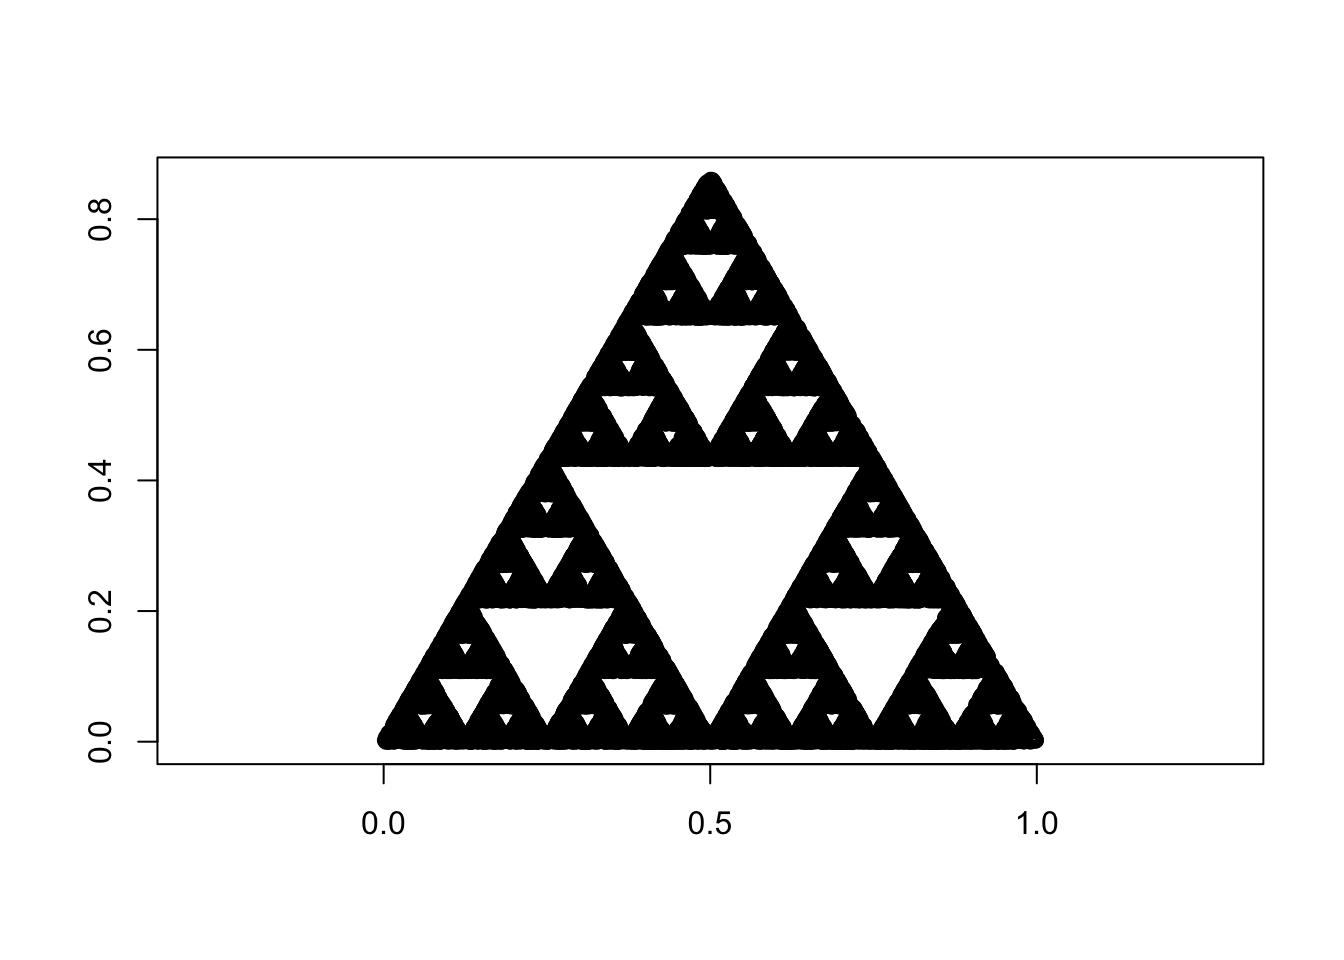
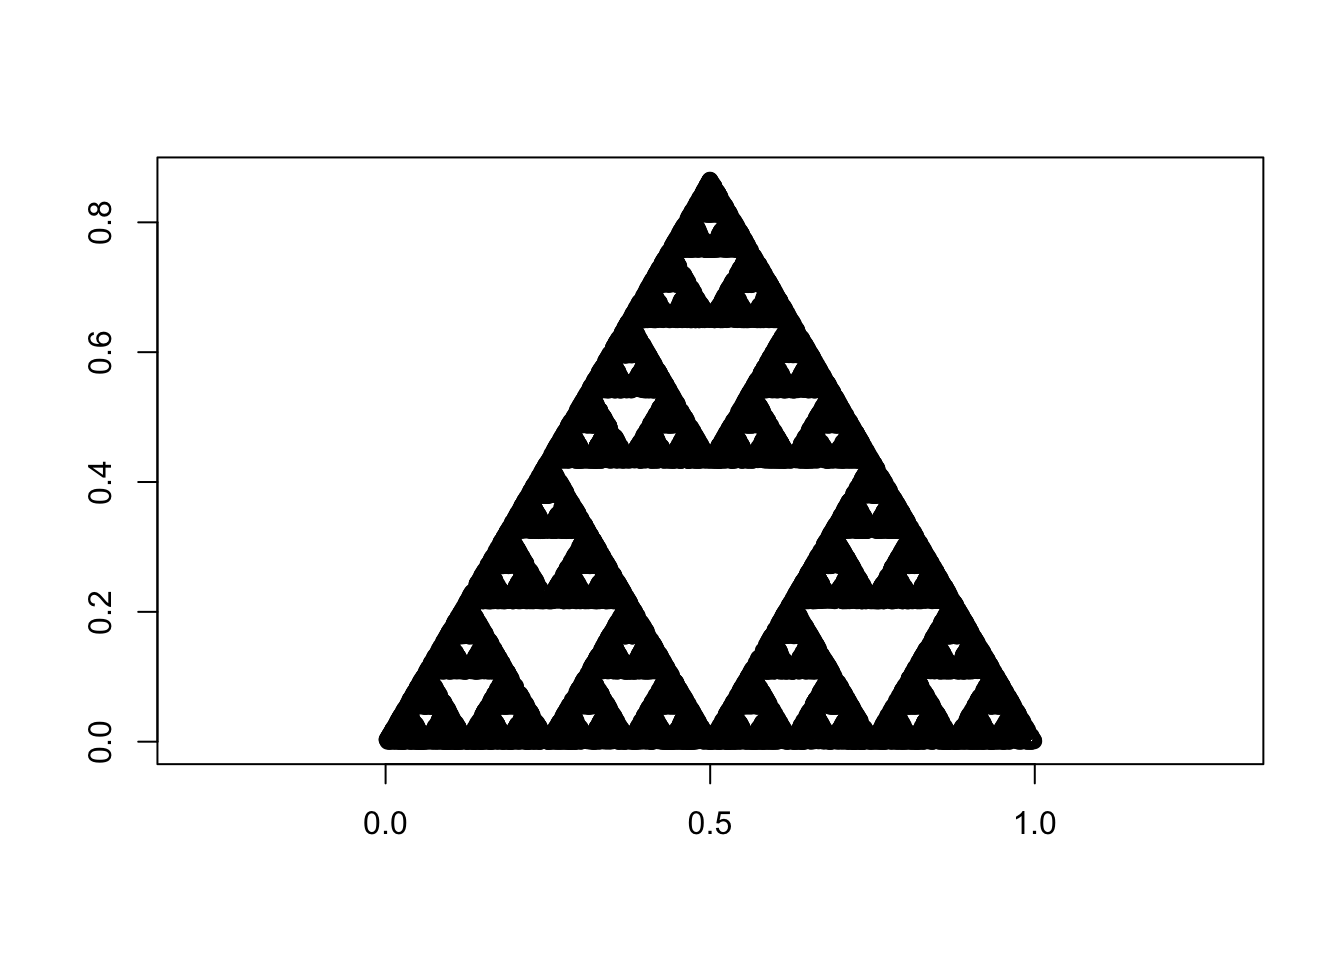
Built site for sameSVD: 0.2.0@332604d

diff --git a/articles/points.html b/articles/points.html
@@ -85,7 +85,7 @@
       <h1 data-toc-skip>Box-Counting dimension of point datasets</h1>
                         <h4 class="author">Pramit Ghosh</h4>
             
-            <h4 class="date">2020-05-12</h4>
+            <h4 class="date">2020-05-29</h4>
       
       <small class="dont-index">Source: <a href="https://github.com/pramitghosh/sameSVD/blob/master/vignettes/points.Rmd"><code>vignettes/points.Rmd</code></a></small>
       <div class="hidden name"><code>points.Rmd</code></div>
@@ -180,10 +180,10 @@
 <span class="co">#&gt; Simple feature collection with 1 feature and 0 fields</span>
 <span class="co">#&gt; geometry type:  MULTIPOINT</span>
 <span class="co">#&gt; dimension:      XY</span>
-<span class="co">#&gt; bbox:           xmin: 0.002162498 ymin: 2.734709e-07 xmax: 0.9983608 ymax: 0.8601136</span>
+<span class="co">#&gt; bbox:           xmin: 0.001840997 ymin: 0 xmax: 0.998807 ymax: 0.8653527</span>
 <span class="co">#&gt; CRS:            EPSG:3857</span>
 <span class="co">#&gt;   st_sfc.st_multipoint.sierpinski_pts...crs...3857.</span>
-<span class="co">#&gt; 1                    MULTIPOINT ((0.25 0.4330127...</span>
+<span class="co">#&gt; 1                    MULTIPOINT ((0.5 0), (0.25 ...</span>
 <span class="fu"><a href="https://rdrr.io/pkg/sf/man/plot.html">plot</a></span>(<span class="no">sierpinski_sf</span>, <span class="kw">axes</span> <span class="kw">=</span> <span class="fl">TRUE</span>)</pre></body></html></div>
 <p><img src="points_files/figure-html/unnamed-chunk-8-1.png" width="672"></p>
 <p>The Box-Counting Dimension of this figure is calculated using <code><a href="../reference/bcd.html">bcd()</a></code> as illustrated below.</p>
@@ -194,7 +194,7 @@
 <span class="co">#&gt; Plotting requested...</span></pre></body></html></div>
 <p><img src="points_files/figure-html/unnamed-chunk-9-1.png" width="672"></p>
 <pre><code>#&gt; Plotting best-fit line...
-#&gt; [1] 1.599228</code></pre>
+#&gt; [1] 1.600681</code></pre>
 <p>The regression gives a Box-Counting dimension of ~1.59 which is very close to the theoretical value.</p>
 </div>
 </div>

diff --git a/articles/using_fdim.html b/articles/using_fdim.html
@@ -85,7 +85,7 @@
       <h1 data-toc-skip>Using sameSVD</h1>
                         <h4 class="author">Pramit Ghosh</h4>
             
-            <h4 class="date">2020-05-12</h4>
+            <h4 class="date">2020-05-29</h4>
       
       <small class="dont-index">Source: <a href="https://github.com/pramitghosh/sameSVD/blob/master/vignettes/using_fdim.Rmd"><code>vignettes/using_fdim.Rmd</code></a></small>
       <div class="hidden name"><code>using_fdim.Rmd</code></div>
@@ -126,7 +126,7 @@
 <li>If the feature is stored in an external file, it may be imported using the <code>dsn</code> and <code>layer</code> arguments in the function <code><a href="../reference/bcd.html">bcd()</a></code> along with any other arguments for <code><a href="https://rdrr.io/pkg/sf/man/st_read.html">sf::st_read()</a></code>. The <code>plot = TRUE</code> argument plots the scatterplot and the shows the best-fit line obtained from the simple linear regression. The default argument for <code>plot</code> is <code>FALSE</code>.</li>
 </ul>
 <div class="sourceCode" id="cb3"><html><body><pre class="r"><span class="no">mp</span> <span class="kw">=</span> <span class="fu"><a href="../reference/import_SVD.html">import_SVD</a></span>(<span class="kw">dsn</span> <span class="kw">=</span> <span class="fu"><a href="https://rdrr.io/r/base/system.file.html">system.file</a></span>(<span class="kw">package</span> <span class="kw">=</span> <span class="st">"sameSVD"</span>), <span class="kw">layer</span> <span class="kw">=</span> <span class="st">"madhya_pradesh"</span>)
-<span class="co">#&gt; Reading layer `madhya_pradesh' from data source `/Users/runner/runners/2.169.1/work/_temp/Library/sameSVD' using driver `ESRI Shapefile'</span>
+<span class="co">#&gt; Reading layer `madhya_pradesh' from data source `/Users/runner/runners/2.263.0/work/_temp/Library/sameSVD' using driver `ESRI Shapefile'</span>
 <span class="co">#&gt; Simple feature collection with 1 feature and 2 fields</span>
 <span class="co">#&gt; geometry type:  POLYGON</span>
 <span class="co">#&gt; dimension:      XY</span>

diff --git a/pkgdown.css b/pkgdown.css
@@ -244,14 +244,14 @@ nav[data-toggle='toc'] .nav .nav > .active:focus > a {
 
 .ref-index th {font-weight: normal;}
 
-.ref-index td {vertical-align: top;}
+.ref-index td {vertical-align: top; min-width: 100px}
 .ref-index .icon {width: 40px;}
 .ref-index .alias {width: 40%;}
 .ref-index-icons .alias {width: calc(40% - 40px);}
 .ref-index .title {width: 60%;}
 
 .ref-arguments th {text-align: right; padding-right: 10px;}
-.ref-arguments th, .ref-arguments td {vertical-align: top;}
+.ref-arguments th, .ref-arguments td {vertical-align: top; min-width: 100px}
 .ref-arguments .name {width: 20%;}
 .ref-arguments .desc {width: 80%;}
 

diff --git a/index.html b/index.html
@@ -117,7 +117,7 @@
 </tr>
 <tr class="even">
 <td>Others</td>
-<td>- <code>*POINT</code> [need suitable algorithm]<br>- <code>*LINESTRING</code> [turning angles]<br>- <code>*POLYGON</code> [turning angles]</td>
+<td>- <code>*POINT</code> [?]<br>- <code>*LINESTRING</code> [turning angles]<br>- <code>*POLYGON</code> [turning angles]</td>
 <td>- <code>*POINT</code> [?]<br>- <code>*LINESTRING</code> [?]<br>- <code>*POLYGON</code> [?]<br><br><em>need suitable algorithms to implement</em>
 </td>
 </tr>
